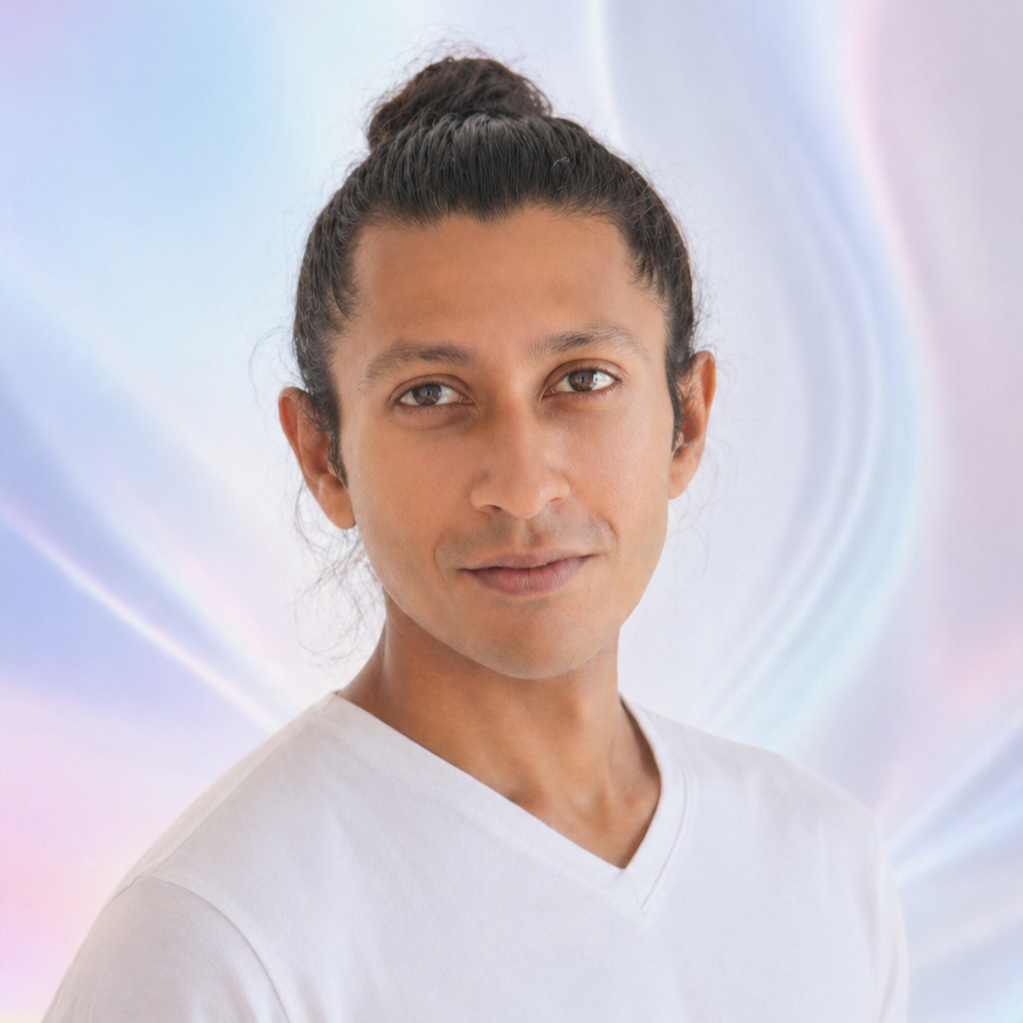
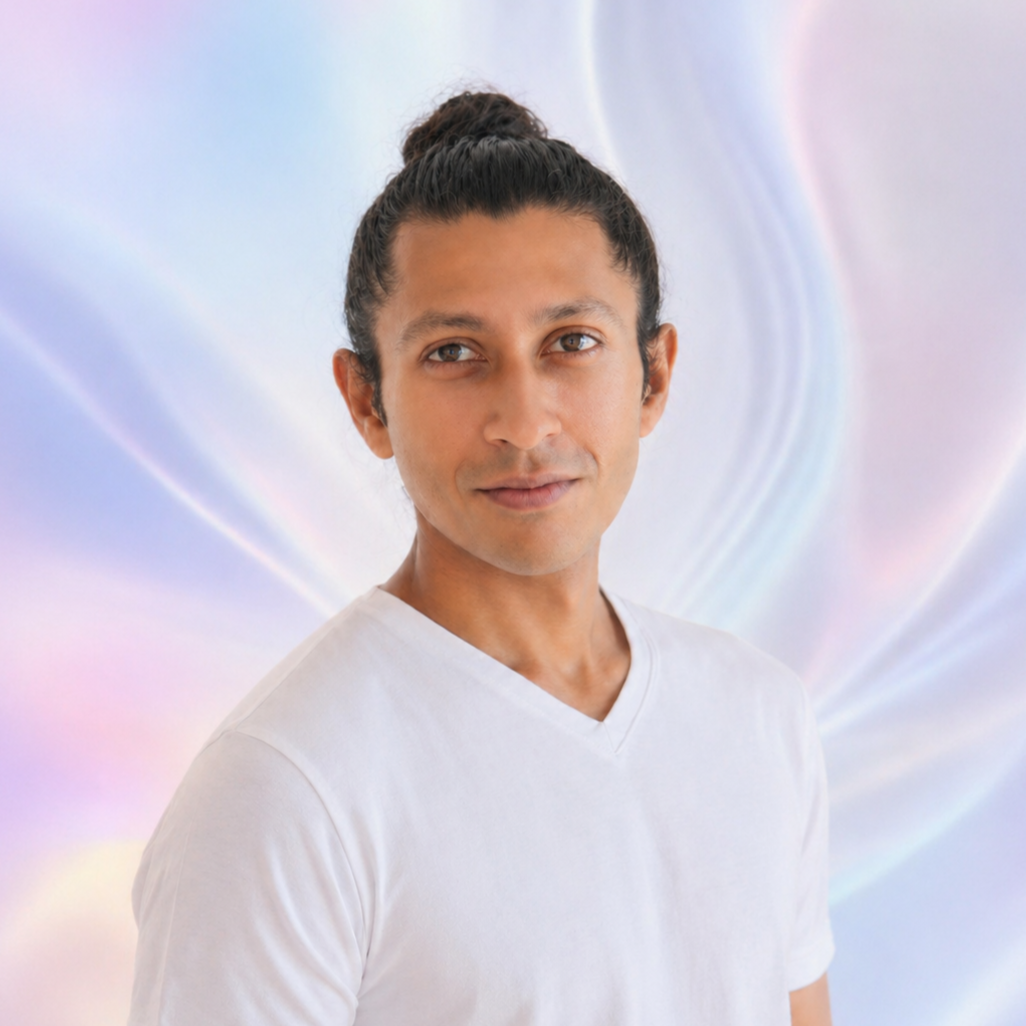
new upadtes

diff --git a/src/pages/Contact.tsx b/src/pages/Contact.tsx
@@ -1,6 +1,6 @@
 import { useState } from "react";
 import { useNavigate } from "react-router-dom";
-import { ArrowLeft, Send } from "lucide-react";
+import { ArrowLeft, Send, Instagram, Youtube, Linkedin } from "lucide-react";
 import { motion } from "framer-motion";
 import PageTransition from "@/components/PageTransition";
 import Iridescence from "@/components/Iridescence";
@@ -27,9 +27,9 @@ const Contact = () => {
   const focusStyle = (field: string): React.CSSProperties =>
     focused === field
       ? {
-          borderColor: "rgba(20, 55, 150, 0.6)",
-          boxShadow: "0 0 6px rgba(10, 40, 130, 0.2), 0 0 12px rgba(10, 40, 130, 0.08)",
-        }
+        borderColor: "rgba(20, 55, 150, 0.6)",
+        boxShadow: "0 0 6px rgba(10, 40, 130, 0.2), 0 0 12px rgba(10, 40, 130, 0.08)",
+      }
       : {};
 
   return (
@@ -75,13 +75,13 @@ const Contact = () => {
               className="text-[13vw] md:text-[6vw] uppercase leading-[0.9] tracking-[0.12em]"
               style={{ fontFamily: "'Nestborn', sans-serif", color: "hsl(0,0%,0%)" }}
             >
-              Let's Connect
+              start a conversation
             </h1>
             <p
               className="mt-4 text-sm md:text-base font-light max-w-sm mx-auto"
               style={{ fontFamily: "'Libre Baskerville', 'Baskerville', serif", color: "hsla(0,0%,0%,0.85)" }}
             >
-              Share a little about yourself and what you're seeking.
+              Tell me a little about what you're looking for
             </p>
           </motion.div>
 
@@ -104,11 +104,11 @@ const Contact = () => {
                 className="text-base leading-relaxed font-light"
                 style={{ fontFamily: "'Libre Baskerville', 'Baskerville', serif", color: "hsla(0,0%,0%,0.85)" }}
               >
-                Your Name
+                Name
               </label>
               <input
                 type="text"
-                placeholder="Rhishav Sikdar"
+                placeholder=""
                 value={form.name}
                 onChange={e => setForm(f => ({ ...f, name: e.target.value }))}
                 onFocus={() => setFocused("name")}
@@ -123,11 +123,11 @@ const Contact = () => {
                 className="text-base leading-relaxed font-light"
                 style={{ fontFamily: "'Libre Baskerville', 'Baskerville', serif", color: "hsla(0,0%,0%,0.85)" }}
               >
-                Email Address
+                Email
               </label>
               <input
                 type="email"
-                placeholder="you@email.com"
+                placeholder=""
                 value={form.email}
                 onChange={e => setForm(f => ({ ...f, email: e.target.value }))}
                 onFocus={() => setFocused("email")}
@@ -142,11 +142,11 @@ const Contact = () => {
                 className="text-base leading-relaxed font-light"
                 style={{ fontFamily: "'Libre Baskerville', 'Baskerville', serif", color: "hsla(0,0%,0%,0.85)" }}
               >
-                Your Message
+                Message
               </label>
               <textarea
                 rows={4}
-                placeholder="Tell me what you're looking for..."
+                placeholder=""
                 value={form.message}
                 onChange={e => setForm(f => ({ ...f, message: e.target.value }))}
                 onFocus={() => setFocused("message")}
@@ -178,33 +178,45 @@ const Contact = () => {
               transition={{ type: "spring", stiffness: 300, damping: 20 }}
             >
               <Send className="w-3.5 h-3.5" />
-              Send Message
+              Start conversation
             </motion.button>
           </motion.div>
 
-          {/* Contact info — small, below */}
+          {/* Contact info — social logos below */}
           <motion.div
-            className="mt-10 flex flex-wrap items-center justify-center gap-x-6 gap-y-1"
+            className="mt-10 flex flex-wrap items-center justify-center gap-x-8 gap-y-4"
             initial={{ opacity: 0 }}
             animate={{ opacity: 1 }}
             transition={{ delay: 0.6, duration: 0.8 }}
           >
-            {[
-              { label: "+91 XXXXX XXXXX", href: "tel:+91XXXXXXXXXX" },
-              { label: "@rhishav", href: "https://instagram.com/rhishav" },
-              { label: "rhishav@email.com", href: "mailto:rhishav@email.com" },
-            ].map((item, i) => (
-              <a
-                key={i}
-                href={item.href}
-                target="_blank"
-                rel="noopener noreferrer"
-                className="text-[0.72rem] tracking-wide no-underline transition-opacity duration-200 hover:opacity-70"
-                style={{ fontFamily: "'Libre Baskerville', 'Baskerville', serif", color: "hsla(0,0%,0%,0.85)" }}
-              >
-                {item.label}
-              </a>
-            ))}
+            {/* Fill these hrefs with your profile links */}
+            <a
+              href="#"
+              target="_blank"
+              rel="noopener noreferrer"
+              className="text-black/70 hover:text-black transition-colors duration-200"
+              aria-label="Instagram"
+            >
+              <Instagram className="w-7 h-7" />
+            </a>
+            <a
+              href="#"
+              target="_blank"
+              rel="noopener noreferrer"
+              className="text-black/70 hover:text-black transition-colors duration-200"
+              aria-label="YouTube"
+            >
+              <Youtube className="w-7 h-7" />
+            </a>
+            <a
+              href="#"
+              target="_blank"
+              rel="noopener noreferrer"
+              className="text-black/70 hover:text-black transition-colors duration-200"
+              aria-label="LinkedIn"
+            >
+              <Linkedin className="w-7 h-7" />
+            </a>
           </motion.div>
 
         </div>

diff --git a/src/pages/InnerWork.tsx b/src/pages/InnerWork.tsx
@@ -5,6 +5,37 @@ import PageTransition from "@/components/PageTransition";
 import Iridescence from "@/components/Iridescence";
 import portraitImg from "@/assets/innerworkwithbg.png";
 import GetInTouchButton from "@/components/GetInTouchButton";
+import { useState } from "react";
+
+const GlassCallButton = ({ label, onClick }: { label: string; onClick?: () => void }) => {
+  const [hovered, setHovered] = useState(false);
+  const radius = "7vh";
+  const variantClass = "glass-button-wrap--transparent";
+
+  return (
+    <div
+      className={`glass-button-wrap ${variantClass} w-full max-w-[320px] h-[60px] md:h-[70px] pointer-events-auto cursor-pointer mx-auto mt-12`}
+      style={{ borderRadius: radius }}
+      onMouseEnter={() => setHovered(true)}
+      onMouseLeave={() => setHovered(false)}
+      onClick={onClick}
+    >
+      <div className="glass-border-ring" style={{ borderRadius: "inherit" }} />
+      <div
+        className="glass-button relative isolate w-full h-full flex items-center justify-center"
+        style={{ borderRadius: "inherit" }}
+      >
+        <span
+          className="glass-button-text relative z-10 block select-none tracking-[0.1em] md:tracking-[0.15em] font-bold px-1 md:px-2 text-center text-[1rem] md:text-[1.2rem]"
+          style={{ color: "black", fontFamily: "'Nestborn', sans-serif" }}
+        >
+          {label}
+        </span>
+      </div>
+      <div className="glass-button-shadow" style={{ borderRadius: "inherit" }} />
+    </div>
+  );
+};
 
 const approaches = [
   {
@@ -74,7 +105,7 @@ const InnerWork = () => {
         <div className="relative z-[2]">
           {/* Hero section — image left, text right */}
           <section className="min-h-screen flex items-center px-6 md:px-16 lg:px-24 py-24">
-            <div className="flex flex-col md:flex-row items-center gap-10 md:gap-16 w-full max-w-6xl mx-auto">
+            <div className="flex flex-col md:flex-row md:items-start items-center gap-10 md:gap-16 w-full max-w-6xl mx-auto">
               {/* Portrait */}
               <motion.div
                 className="w-full md:w-[45%] flex-shrink-0"
@@ -96,21 +127,6 @@ const InnerWork = () => {
                     className="w-full h-full object-cover"
                     style={{
                       filter: "brightness(0.95) contrast(1.05) saturate(0.9)",
-                    }}
-                  />
-                  {/* Edge blend overlays */}
-                  <div
-                    className="absolute inset-0 pointer-events-none"
-                    style={{
-                      background:
-                        "radial-gradient(ellipse at center, transparent 50%, hsla(0,0%,0%,0.3) 100%)",
-                    }}
-                  />
-                  <div
-                    className="absolute inset-0 pointer-events-none"
-                    style={{
-                      background:
-                        "linear-gradient(to top, hsla(0,0%,0%,0.35) 0%, transparent 30%), linear-gradient(to bottom, hsla(0,0%,0%,0.15) 0%, transparent 20%)",
                     }}
                   />
                 </div>
@@ -207,7 +223,7 @@ const InnerWork = () => {
                 viewport={{ once: true, margin: "-100px" }}
                 transition={{ duration: 0.6 }}
               >
-                My Offerings
+                Offerings
               </motion.h2>
 
               <div className="flex flex-col gap-6 items-center">
@@ -250,6 +266,17 @@ const InnerWork = () => {
                   </motion.div>
                 ))}
               </div>
+
+              {/* Book a discovery call button */}
+              <motion.div
+                initial={{ opacity: 0, y: 30 }}
+                whileInView={{ opacity: 1, y: 0 }}
+                viewport={{ once: true }}
+                transition={{ duration: 0.6, delay: 0.2 }}
+                className="flex justify-center w-full"
+              >
+                <GlassCallButton label="Book a discovery call" onClick={() => navigate("/contact")} />
+              </motion.div>
             </div>
           </section>
 

diff --git a/src/pages/Illusionist.tsx b/src/pages/Illusionist.tsx
@@ -101,7 +101,7 @@ const services = [
     number: "03",
     title: "Complete",
     description:
-      "The best of both worlds – a full-scale experience that combines the impact of stage with the depth of close-up. It begins with an immersive stage performance and seamlessly flows into close-up, engaging the audience at every level and creating memories for a lifetime.",
+      "The best of both worlds – a full-scale experience that combines the impact of stage with the depth of close-up. It begins with an immersive stage performance and seamlessly flows into close-up, engaging the audience at every level and leaving them with memories for a lifetime.",
     fontFamily: "'Libre Baskerville', 'Baskerville', serif",
   },
 ];
@@ -346,7 +346,7 @@ const Illusionist = () => {
                 viewport={{ once: true, margin: "-100px" }}
                 transition={{ duration: 0.6 }}
               >
-                Moments of Magic
+                Gallery
               </motion.h2>
 
               <div className="grid grid-cols-2 md:grid-cols-4 gap-4 md:gap-6">
@@ -403,7 +403,7 @@ const Illusionist = () => {
                   color: "hsla(0, 0%, 0%, 0.95)",
                 }}
               >
-                Featured In & Trusted By
+                Trusted By
               </p>
               <div className="mt-12 overflow-hidden [mask-image:linear-gradient(to_right,transparent,black_10%,black_90%,transparent)]">
                 <InfiniteSlider gap={40} speed={180}>

diff --git a/src/pages/Index.tsx b/src/pages/Index.tsx
@@ -3,6 +3,7 @@ import WebGLCanvas from "@/components/WebGLCanvas";
 import SplitName from "@/components/SplitName";
 import GlassBlobs from "@/components/GlassBlobs";
 import PageTransition from "@/components/PageTransition";
+import { Instagram, Youtube, Linkedin } from "lucide-react";
 
 const blocks = [
   { title: "About", description: "Designer & developer crafting digital experiences with precision and soul." },
@@ -56,6 +57,22 @@ const Index = () => {
 
         {/* Glass blobs */}
         <GlassBlobs />
+
+        {/* Social Icons Bottom Right */}
+        <div className="fixed bottom-6 right-6 z-[10] flex gap-4 pointer-events-auto">
+          {/* Fill these hrefs with your profile links */}
+          <a href="#" className="text-black/60 hover:text-black transition-colors" aria-label="Instagram">
+            <Instagram className="w-6 h-6" />
+          </a>
+          {/* Fill these hrefs with your profile links */}
+          <a href="#" className="text-black/60 hover:text-black transition-colors" aria-label="YouTube">
+            <Youtube className="w-6 h-6" />
+          </a>
+          {/* Fill these hrefs with your profile links */}
+          <a href="#" className="text-black/60 hover:text-black transition-colors" aria-label="LinkedIn">
+            <Linkedin className="w-6 h-6" />
+          </a>
+        </div>
 
       </div>
     </PageTransition>
